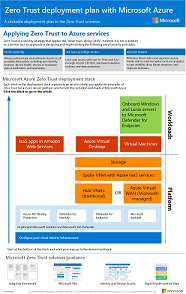
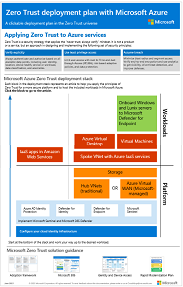
Updated figures and text.

diff --git a/zero-trust/apply-zero-trust-azure-services-overview.md b/zero-trust/apply-zero-trust-azure-services-overview.md
@@ -44,11 +44,11 @@ Here is the content architecture for this set of articles that contain the set o
 
 You apply the guidance in the articles in a stack from the bottom up. The articles don't need to be followed in the order indicated in all cases, but all of the platform articles should be implemented for the workload for Zero Trust-based protection.
 
-| Workload | Platform set of articles |
+| Workload | Platform set of articles (from the bottom up) |
 | --- | --- |
-| IaaS apps in Amazon Web Services (AWS) | Cloud identity infrastructure <br> Microsoft Sentinel and Microsoft 365 Defender |
-| Azure Virtual Desktop | Cloud identity infrastructure <br> Microsoft Sentinel and Microsoft 365 Defender <br> Hub VNets (traditional) OR Azure Virtual WAN (Microsoft-managed) <br> Spoke VNets with Azure IaaS services <br> Storage |
-| Virtual machines | Cloud identity infrastructure <br> Microsoft Sentinel and Microsoft 365 Defender <br> Hub VNets (traditional) OR Azure Virtual WAN (Microsoft-managed) <br> Spoke VNets with Azure IaaS services <br> Storage <br><br> Additionally, for Windows and Linux servers, onboard them to Microsoft Defender for Endpoint. |
+| IaaS apps in Amazon Web Services (AWS) | <ul><li> Cloud identity infrastructure </li><li> Microsoft Sentinel and Microsoft 365 Defender </li></ul> |
+| Azure Virtual Desktop | <ul><li> Cloud identity infrastructure </li><li> Microsoft Sentinel and Microsoft 365 Defender </li><li> Hub VNets (traditional) OR Azure Virtual WAN (Microsoft-managed) </li><li> Storage </li></ul> |
+| Virtual machines | <ul><li> Cloud identity infrastructure </li><li> Microsoft Sentinel and Microsoft 365 Defender </li><li> Hub VNets (traditional) OR Azure Virtual WAN (Microsoft-managed) </li><li> Storage  </li></ul><br> Additionally, for Windows and Linux servers, onboard them to Microsoft Defender for Endpoint. </li></ul> |
 
 It’s important to note that the guidance in this series of articles is more specific for this type of architecture than the guidance provided in the [Cloud Adoption Framework](/azure/cloud-adoption-framework/get-started/index) and [Azure landing zone](/azure/cloud-adoption-framework/ready/landing-zone/index) architectures. If you have applied the guidance in either of these resources, be sure to also review this series of articles for additional recommendations.  
 
